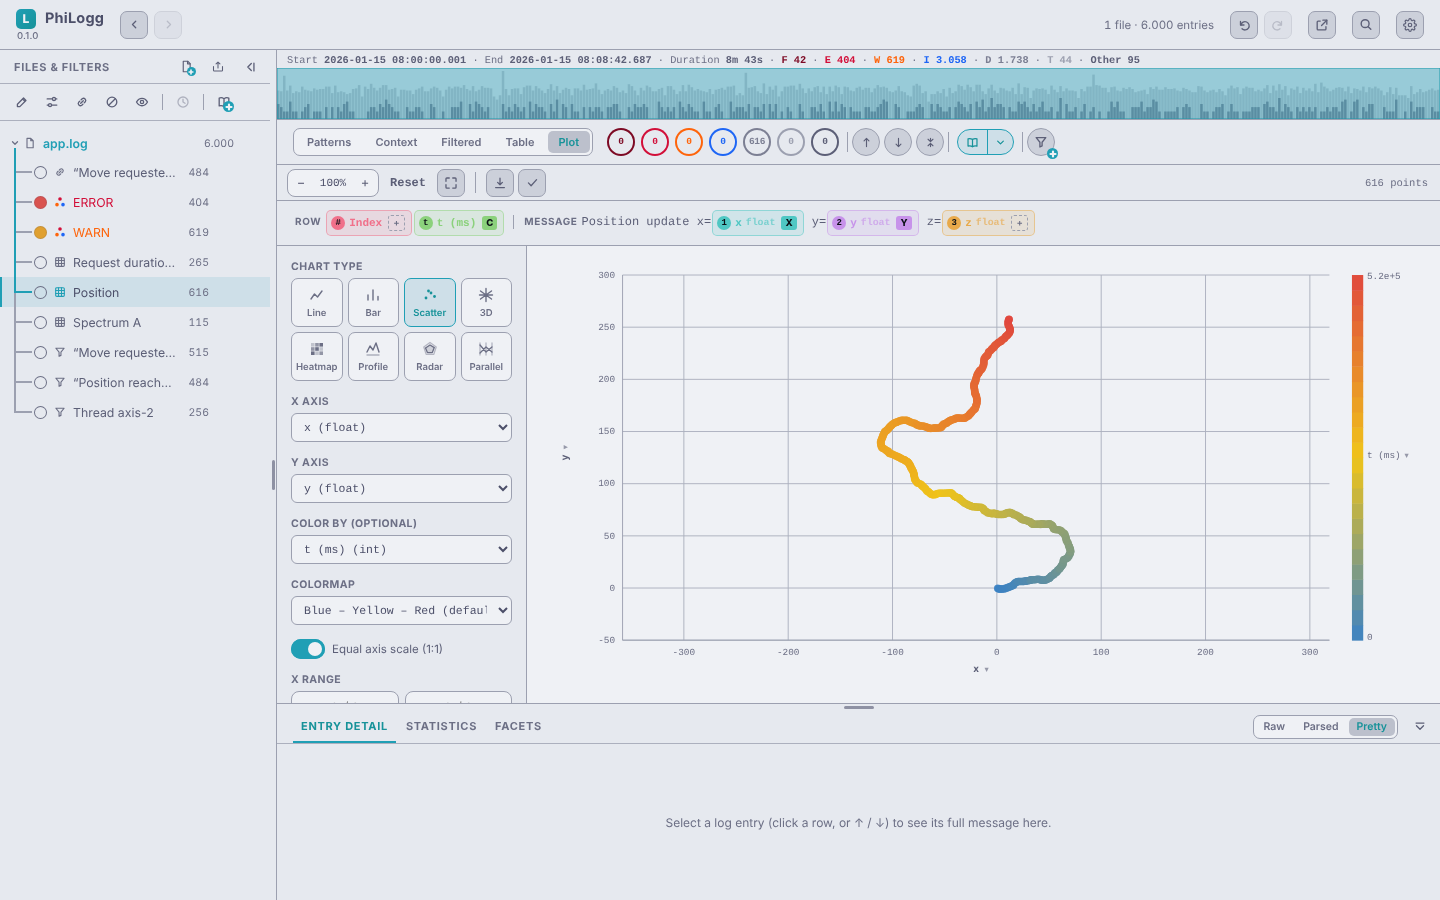
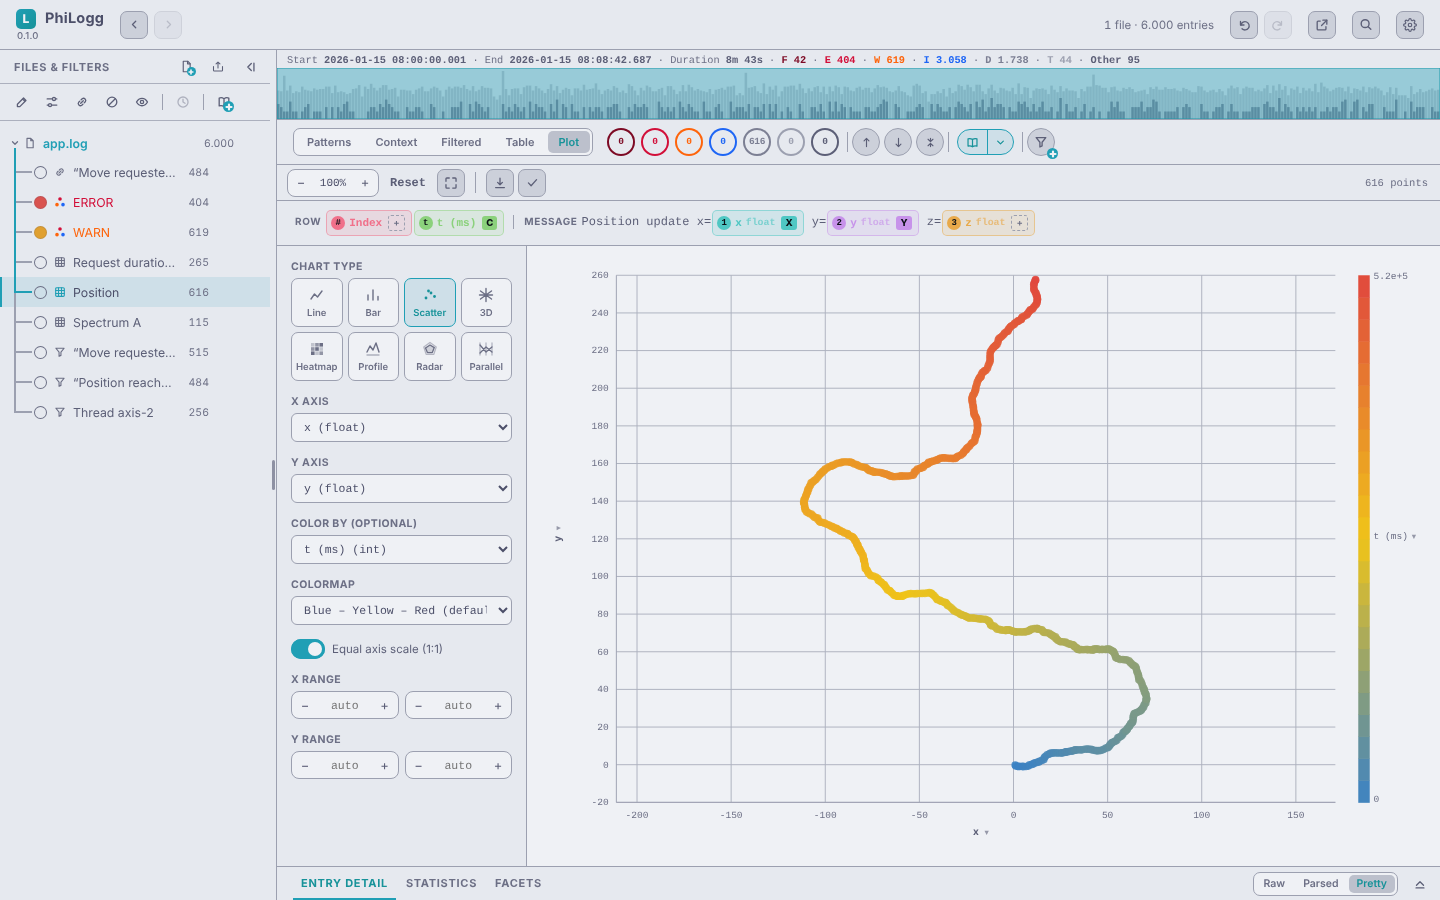
fix: wrap hero terminal lines on the homepage; collapse detail panel in card screenshots
Retires backlog #106 and #107.

diff --git a/tests/groups/homepage-terminal-wrap.js b/tests/groups/homepage-terminal-wrap.js
@@ -1,0 +1,28 @@
+// GROUP homepage-terminal-wrap — loaded by philogg.regression.test.js (see
+// tests/README.md → "Group files"); runs inside its main async function.
+
+/* ============================================================
+   GROUP homepage-terminal-wrap — hero terminal wraps long lines
+   Origin: 2026-10-07 (backlog #106). The sample lines of the hero terminal
+   must read completely, also at phone width: the message cell wraps, only
+   the time and level columns stay on one line. jsdom has no layout, so the
+   page's CSS rules are checked. Also: the feature-card screenshots are
+   shot with the Entry detail panel collapsed (backlog #107).
+   ============================================================ */
+group("homepage-terminal-wrap");
+if (groupSelected()) {
+  const root = path.join(__dirname, "..");
+  const css = fs.readFileSync(path.join(root, "site", "index.html"), "utf8").match(/<style>([\s\S]*?)<\/style>/)[1];
+  const rule = sel => (css.match(new RegExp("(?:^|\\})\\s*" + sel.replace(/[.]/g, "\\.") + "\\{([^}]*)\\}", "m")) || [])[1] || "";
+
+  section("homepage-terminal-wrap a. Message cell wraps, time and level do not");
+  assert(!/white-space:\s*nowrap/.test(rule(".tl")), ".tl row no longer forbids wrapping");
+  assert(!/text-overflow/.test(rule(".tl .msg")) && !/overflow:\s*hidden/.test(rule(".tl .msg")), "message cell does not cut with an ellipsis");
+  assert(/overflow-wrap:\s*anywhere/.test(rule(".tl .msg")), "message cell breaks long words");
+  assert(/white-space:\s*nowrap/.test(rule(".tl .ts")) && /white-space:\s*nowrap/.test(rule(".lv")), "time and level stay on one line");
+  assert(/@media \(max-width:520px\)\{[^@]*\.tl\{grid-template-columns/.test(css), "narrow columns at phone width");
+
+  section("homepage-terminal-wrap b. Card screenshots collapse the detail panel");
+  for (const s of ["01-log-view", "03-plot", "04-link-view"])
+    assert(/toggleDetailCollapsed\(true\)/.test(fs.readFileSync(path.join(root, "docs", "screenshots", "scenes", s + ".js"), "utf8")), s + " scene collapses Entry detail");
+}

diff --git a/site/index.html b/site/index.html
@@ -70,16 +70,17 @@ img{max-width:100%}
 .term{background:var(--bg-panel);border:1px solid var(--border);border-radius:8px;overflow:hidden;min-width:0}
 .term-head{display:flex;justify-content:space-between;gap:10px;padding:7px 12px;border-bottom:1px solid var(--border-soft);font:12px var(--font-log);color:var(--text-tertiary)}
 .term-body{padding:12px 0;font:12.5px/1.75 var(--font-log);overflow-x:auto;min-height:220px}
-.tl{display:grid;grid-template-columns:3px 92px 56px minmax(0,1fr);gap:10px;padding:0 12px 0 0;white-space:nowrap}
+.tl{display:grid;grid-template-columns:3px 92px 56px minmax(0,1fr);gap:10px;padding:0 12px 0 0}
 .tl .bar{align-self:stretch}
-.tl .ts{color:var(--text-tertiary)}
-.tl .msg{overflow:hidden;text-overflow:ellipsis}
-.lv{font-weight:600;color:var(--c,var(--text-secondary))}
+.tl .ts{color:var(--text-tertiary);white-space:nowrap}
+.tl .msg{overflow-wrap:anywhere}
+.lv{white-space:nowrap;font-weight:600;color:var(--c,var(--text-secondary))}
 .bar{background:var(--c,transparent)}
 .l-WHAT{--c:var(--lv-what)} .l-HOW{--c:var(--lv-how)} .l-TRY{--c:var(--lv-try)}
 .l-GOTCHA{--c:var(--lv-gotcha)} .l-DONT{--c:var(--lv-dont)} .l-DEEP{--c:var(--lv-deep)}
 .caret{display:inline-block;width:.6em;height:1.1em;vertical-align:-2px;background:var(--accent);animation:blink 1s steps(1) infinite;margin-left:105px}
 @keyframes blink{50%{opacity:0}}
+@media (max-width:520px){.term-body{font-size:11.5px}.tl{grid-template-columns:3px 82px 46px minmax(0,1fr);gap:6px}.caret{margin-left:57px}}
 @media (prefers-reduced-motion:reduce){.caret{animation:none}}
 
 .facts{display:flex;flex-wrap:wrap;border-block:1px solid var(--border-soft);font:13px var(--font-log)}

diff --git a/docs/screenshots/scenes/03-plot.js b/docs/screenshots/scenes/03-plot.js
@@ -1,3 +1,5 @@
+// The Entry detail panel has nothing to show here, so it is collapsed.
+toggleDetailCollapsed(true);
 show(S.position, "plot");
 click('#plotTypeRow [data-type="scatter"]');
 pick("#plotXSelect", "x (");

diff --git a/docs/screenshots/scenes/01-log-view.js b/docs/screenshots/scenes/01-log-view.js
@@ -1,1 +1,3 @@
+// The Entry detail panel has nothing to show here, so it is collapsed.
+toggleDetailCollapsed(true);
 show(S.axis2, "filter");

diff --git a/docs/screenshots/scenes/04-link-view.js b/docs/screenshots/scenes/04-link-view.js
@@ -1,1 +1,3 @@
+// The Entry detail panel has nothing to show here, so it is collapsed.
+toggleDetailCollapsed(true);
 show(S.link, "filter");

diff --git a/FEATURE_BACKLOG.md b/FEATURE_BACKLOG.md
@@ -51,8 +51,6 @@ Wiedervorlage → empty, Verworfen → verworfen).
 | 97 | Plot: bound the number of drawn marks for very large extractions | After the 2026-10-02 stack-overflow fix a 300k-point scatter renders, but every mark is an SVG element: about 2 s per redraw in Chromium, and the first draw runs several redraws. Drawing at most one mark per pixel cell (or a canvas layer) would keep hover/click mapping and the picture while bounding the cost. | mittel | 2 |
 | 102 | Check saving in the macOS/Linux desktop builds | WKWebView (macOS) and WebKitGTK (Linux) have no `showSaveFilePicker`, so every save (session, filter, Export / Share files, CSV, plot image, themes) falls back to an `<a download>` of a Blob, and the Tauri wrapper does not handle downloads explicitly. Whether a file is actually written there, and where, is unverified (the cloud container cannot run those builds); the app would toast "Downloaded …" either way. Candidate: a wrapper-side save dialog via the `window.philogg` contract, like `pick_folder`. | mittel | 2 |
 | 105 | Log formats as files next to the app ("provided formats") | Ship formats as `*.logformat.json` beside `philogg.html` / the desktop exe, loaded read-only at every start (Duplicate to edit), so the homepage can serve the welcome format and an installer or software-distribution package can roll out company formats without an import step; the three baked-in demo formats would move out of the HTML (they also re-seed after being deleted today). Concept with locations per runtime (desktop folders injected by the wrapper, `formats/index.json` when hosted, a generated `philogg-formats.js` for `file://`), semantics and phasing: `docs/concept-format-files.md`. Open there: runtimes for phase 1, read-only layer vs. one-time import, removing the demo seeds. | mittel–groß | 2 |
-| 106 | Homepage: line wrap in the hero terminal | The hero terminal (`welcome.log · tail -f`, fed from the tour's `welcome.log`, see `docs/homepage.md` → "What is on the page") should wrap long lines instead of cutting/scrolling them, so the sample lines read completely on narrow screens too. | klein | 2 |
-| 107 | Homepage: screenshots without unneeded panels | The feature-card screenshots (`docs/screenshots/`, copied by `scripts/build-site.js`) show panels that don't serve the card's point (e.g. an empty Entry detail panel); shoot them with those panels collapsed or cropped to the relevant view, via the screenshot scenes (`docs/screenshots/scenes/`), never by editing images. | klein | 2 |
 | 108 | Homepage: feature cards jump straight into the shown example | A feature card (e.g. Plot) should open the hosted app directly in the state its screenshot shows — the tour session with that view active (deep link like `app/?session=tour/welcome.session.json&…`) — instead of the generic tour start. Needs a deep-link parameter per view if the existing ones (`open=format`) don't cover it. | klein–mittel | 2 |
 | 110 | Folder watch: start filters for non-log files (txt, XML, JSON) | A folder-watch pattern's "Start filters" (#71, `applyFolderStartFilter`) apply only to log nodes; an auto-opened inline viewer (`.txt`/`.xml`/`.json`) gets nothing. Make a start action available for those too, so an auto-opened non-log file jumps straight into the wanted view (e.g. a search/highlight or a specific viewer mode). Open question: what a "filter" means for each viewer kind. | mittel | 2 |
 | 111 | Make numeric wildcard conditions discoverable | Wildcards can filter by comparison and absolute value (`[*:int>=10]`, `[*:int<20,>10]`, `[*:float\|>=10]`, thousands separators `@en`/`@de`), but the only hint is the tooltip of the int/float token buttons in the filter popup. Show it where people type patterns (a short hint line, placeholder or help popover in the filter popup / extraction dialogs). | klein | 2 |

diff --git a/docs/homepage.md b/docs/homepage.md
@@ -22,11 +22,11 @@ domain root alike.
 - **Hero terminal** (`welcome.log · tail -f`): at runtime the page fetches
   `app/tour/welcome.log`, takes the header lines of the first six non-DEEP
   entries (indented continuation lines are skipped) and replays them once as a
-  tail with level colors (all at once under `prefers-reduced-motion`). When the
+  tail with level colors; long messages wrap inside their column (time and level stay on one line, tighter columns at phone width) instead of being cut (all at once under `prefers-reduced-motion`). When the
   fetch fails (e.g. opened from `file://`) the panel stays hidden. No log line
   is written by hand in the page.
 - **Facts row**, **Features** (four cards, screenshots from
-  `docs/screenshots/`, each linking to the tour), **Three ways to run it**.
+  `docs/screenshots/`, shot with the Entry detail panel collapsed so only the card's point shows; each linking to the tour), **Three ways to run it**.
 - **Download** (`#download`): fetches
   `https://api.github.com/repos/Sarrdai/PhiLogg/releases?per_page=20` in the
   visitor's browser, ignores drafts, shows the latest stable release and, when

diff --git a/changelog.d/2026-10-07-homepage-terminal-wrap-screenshots.md b/changelog.d/2026-10-07-homepage-terminal-wrap-screenshots.md
@@ -1,0 +1,4 @@
+- **fix: homepage hero terminal wraps long lines; feature-card screenshots without the empty detail panel (2026-10-07, person-requested)**
+  - The `welcome.log · tail -f` lines wrap in their message column instead of ending in an ellipsis (tighter columns at phone width), so the sample text reads completely.
+  - The log-view, link-view and plot screenshots are shot with the Entry detail panel collapsed (scenes, regenerated; README uses the same pictures).
+  - **Tests**: GROUP homepage-terminal-wrap. Docs: docs/homepage.md.
